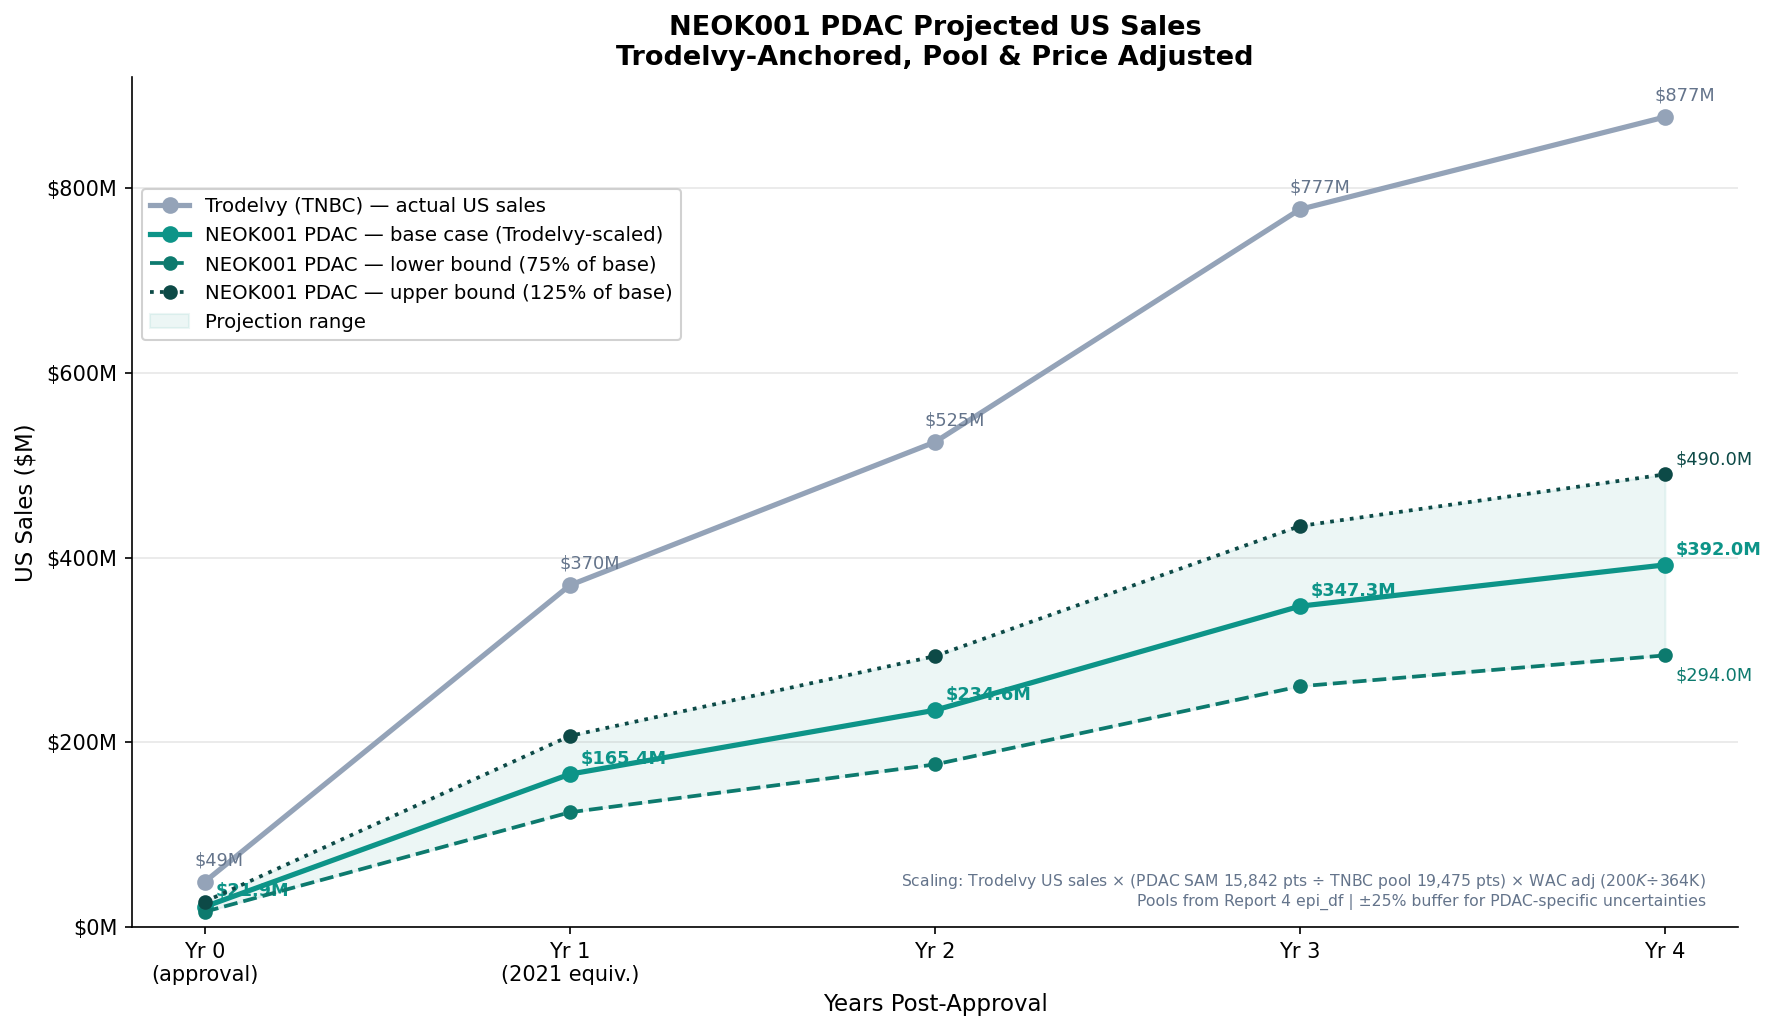
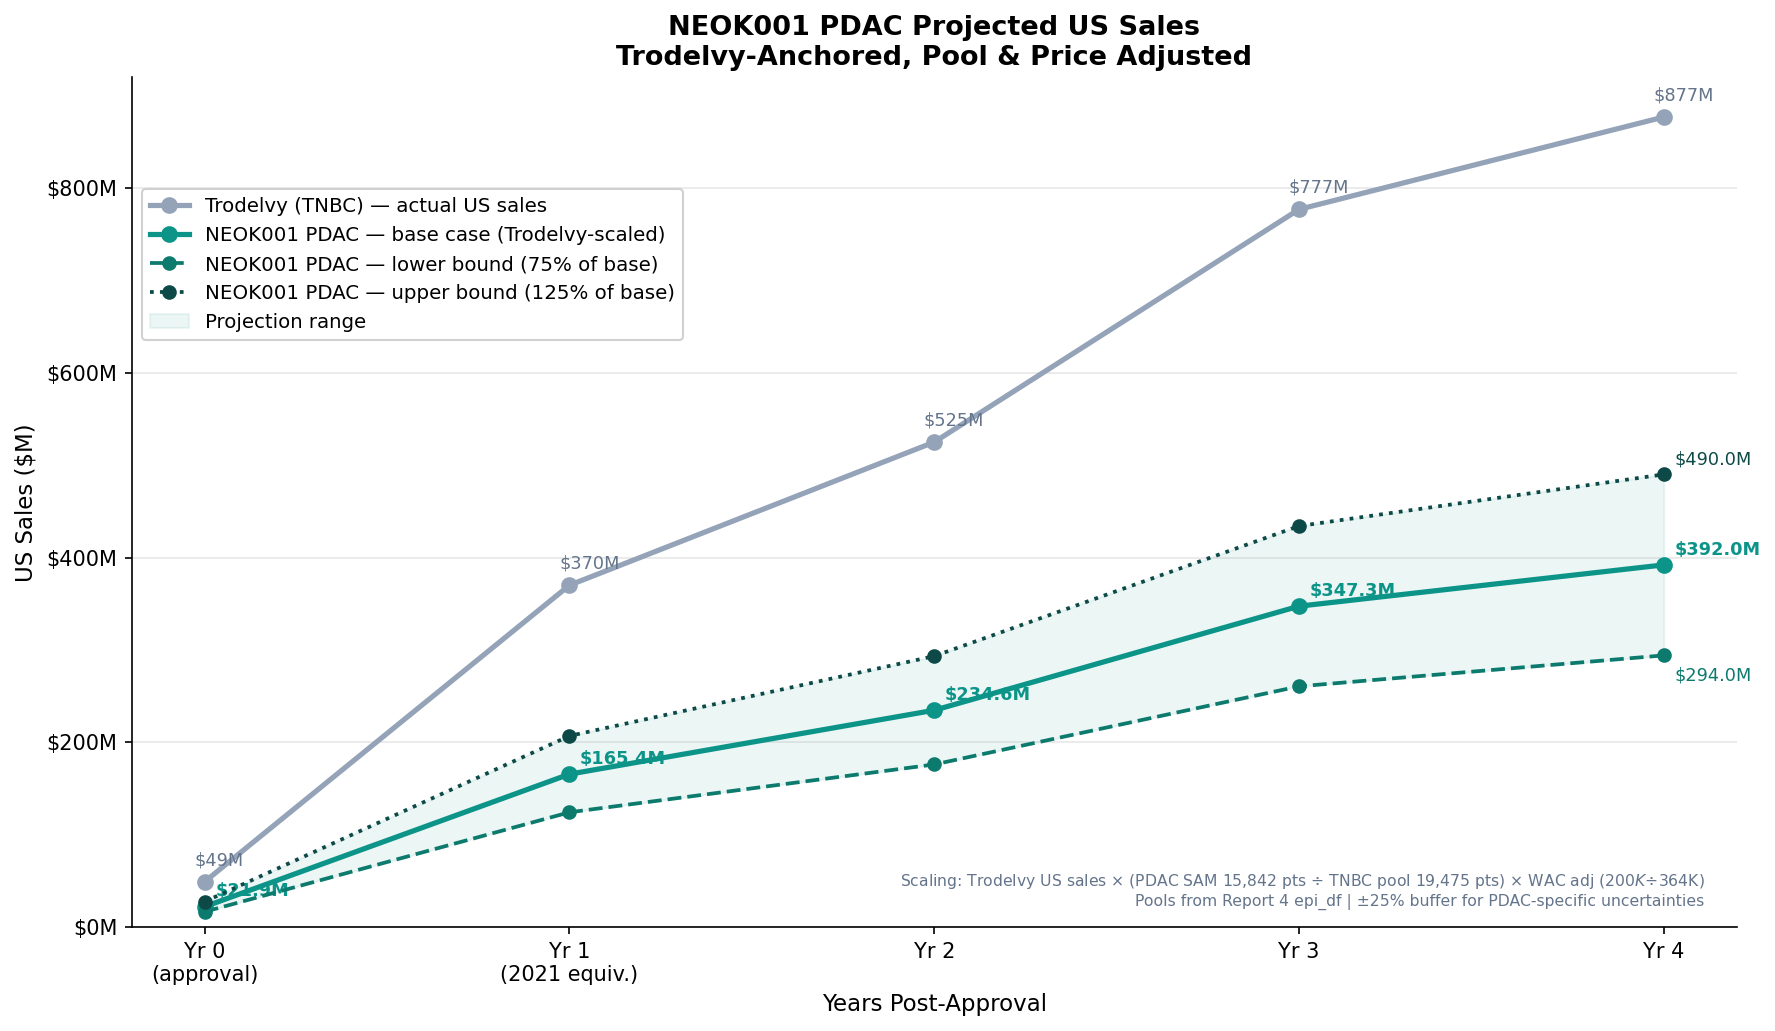
Edits to numbers in section 4

diff --git a/reports/4_Market_Research.md b/reports/4_Market_Research.md
@@ -69,7 +69,7 @@ _° Elahere US values obtained from AbbVie Q4 and Full-Year 2024 Financial Resul
 ---
 
 ### ADC market context:
-In 2024, top-selling ADCs were Enhertu ($3.75B), Kadcyla ($2.32B), Adcetris ($1.91B), Padcev ($1.59B), and Trodelvy ($1.40B)  
+In 2024, top-selling ADCs were Enhertu ($3.75B), Kadcyla ($2.32B), Adcetris ($1.91B), Padcev ($1.59B), and Trodelvy ($1.32B)  
 - No approved ADC targets ROR1 or B7-H3 → NEOK001 would be first-in-class for both targets
 - No approved ADC exists for pancreatic cancer → NEOK001's potential primary indication has a completely clear field
 
@@ -82,7 +82,7 @@ Higher DAR = more payload molecules per antibody = more potent killing.
 
 The most commercially successful recent ADCs use high DAR:
 - Enhertu:  DAR 7.8 → $3.75B in 2024 — highest-selling ADC
-- Trodelvy: DAR 7.6 → $1.40B in 2024 — base case benchmark
+- Trodelvy: DAR 7.6 → $1.32B in 2024 — base case benchmark
 - Padcev:   DAR 3.8 → $1.59B in 2024 — lower DAR, MMAE payload  
 - _NEOK001's DAR with the Synaffix SYNtecan-E linker is mentioned in their [[AACR 2026 poster abstract](https://www.abstractsonline.com/pp8/#!/21436/presentation/5396)]; DAR = 4_
 
@@ -272,7 +272,7 @@ Assumed: single infusion Q3W (common ADC schedule)
 
 <img src="../data/images/02_neok001_revenue_projection.png" width="900">  
 
-*NEOK001 projected US sales (2L+ SAM, Years 0–4 post-approval), scaled from Trodelvy TNBC trajectory adjusted for PDAC pool size and WAC difference. ±25% range reflects PDAC-specific clinical and market uncertainties.*
+*NEOK001 projected US sales (2L+ SAM, Years 0–4 post-approval), scaled from Trodelvy TNBC trajectory adjusted for PDAC pool size and WAC difference. Year 4 base case ~$392M (range ~$294M–$490M). ±25% range reflects PDAC-specific clinical and market uncertainties. Year 0 corresponds to a partial-year launch equivalent to Trodelvy's April 2020 approval.*
 
 <br>
 <hr style="border: 2px solid black;">
@@ -296,7 +296,7 @@ Two SAM estimates reflecting near-term 2L+ entry and long-term 1L expansion:
 | Metric | Value | 
 |--------|-------|
 | Metastatic PDAC patients/yr | ~34,440 (67,530 × 51% metastatic) |
-| % reaching 2L+ therapy | ~46% |
+| % reaching 2L+ therapy | ~50% |
 | ROR1 detection rate (CPTAC) | 92% |
 | Annual WAC assumption | ~$200K |
 | **SAM - near-term (2L+)** | **~$3.2B** (15,842 pts × $200K) |
@@ -318,14 +318,14 @@ Realistic peak market share based on near-term 2L+ SAM (~$3.2B), scaled from Tro
 
 | Scenario | Market Share | Patients/yr | Peak Annual Revenue | Reference |
 |----------|-------------|------------|-------------------|-----------|
-| Conservative | 5–8% of SAM | ~800–1,300 | ~$160M–$250M | Elahere-paced (CDx required) |
-| Base case | 10–15% of SAM | ~1,600–2,400 | ~$320M–$480M | Trodelvy-paced, ~20% CDx discount |
-| Upper bound | 18–25% of SAM | ~2,900–4,000 | ~$570M–$790M | Trodelvy-paced, no CDx |
+| Conservative | 5–8% of SAM | ~800–1,300 | ~$160M–$250M | Elahere-paced (CDx required, slower ramp) |
+| Base case | 10–15% of SAM | ~1,600–2,400 | ~$320M–$480M | Trodelvy benchmark (~12%) ± analog uncertainty |
+| Upper bound | 18–25% of SAM | ~2,900–4,000 | ~$570M–$790M | Outperforms Trodelvy on bispecific selectivity rationale |
 
 **Base case rationale:**  
 Trodelvy achieved ~12% SAM penetration in TNBC by Year 4 post-approval
 (~2,410 patients treated out of ~19,475 addressable)
-- 19,475 addressable → 48,687 TNBC incidence × 40% metastatic eligible, from Report 4
+- 19,475 addressable → 48,687 TNBC incidence × 40% metastatic eligible, from Report 3 (`3_indication_scoring.ipynb`)
 - 2,410 patients treated → $877M Year 4 US sales ÷ $364K annual WAC 
 
 ---
@@ -375,14 +375,18 @@ WAC assumption reflects a single Q3W infusion — actual pricing
 will depend on Phase 1/2 data, competitive landscape at approval,
 and payer negotiations.
 
-**4. Trodelvy penetration back-calculation**
+**4. Trodelvy penetration back-calculation overstates TNBC 2L+ uptake**
 The ~12% SAM penetration estimate for Trodelvy was derived by
 dividing Year 4 US sales ($877M) by annual WAC ($364K) to estimate
 patients treated (~2,410), then dividing by the addressable pool
-(~19,475). This assumes all revenue came from the TNBC 2L+
-indication — Trodelvy has since expanded to HR+/HER2- MBC which
-may inflate the penetration estimate for the original TNBC 2L+
-population specifically.
+(~19,475 TNBC 2L+ patients). However, by Year 4 (2024), Trodelvy
+had expanded to 1L mTNBC and to HR+/HER2- MBC — patients in the
+numerator span multiple lines and indications, while the denominator
+is the original TNBC 2L+ pool only. The true Year-4 penetration in
+the directly-comparable launch setting (TNBC 2L+) was almost
+certainly lower than 12%. Using ~12% as the base case midpoint
+is therefore optimistic; the lower-bound scenario partially absorbs
+this bias.
 
 <br>
 <hr style="border: 2px solid black;">
